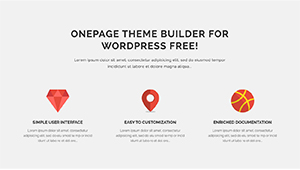
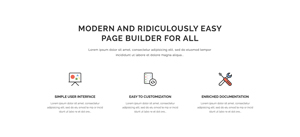
Content 2 block done

diff --git a/onepager/blocks/contents/content-2/style.css b/onepager/blocks/contents/content-2/style.css
@@ -1,7 +1,14 @@
-/*Full section*/
-.content-2{ padding: 60px 0; }
-/*Section Title*/
-.content-2 .section-title{ text-transform: uppercase; }
+/*
+	Full section
+*/
+.content-2 { padding: 60px 0; font-size: 1.125em; }
+.content-2 .section-title { font-weight: bold; font-size: 2.625em; }
 
-/*Item*/
-.content-2 .blurb-inner{ margin: 3rem 0 0; }
+.content-2 .section-title,
+.content-2 .section-subtitle { margin: 1rem 10rem; }
+
+/*
+	Blurbs
+*/
+.content-2 .blurb { margin: 3.5rem 0 0; }
+.content-2 .blurb h3 { font-weight: bold; font-size: 1.125em; }

diff --git a/onepager/blocks/contents/content-2/config.php b/onepager/blocks/contents/content-2/config.php
@@ -5,22 +5,39 @@ return array(
   'groups'    => ['contents'],
 
   'contents' => array(
-    array('name'=>'title', 'value'=>'Ready for the launch of our new website'),
-    array('name'=>'description', 'type'=>'textarea'),
+    array(
+      'name'=>'title', 
+      'value'=>'Modern and Ridiculously Easy Page Builder for All'
+    ),
+    array(
+      'name'=>'description', 
+      'type'=>'textarea', 
+      'value' => 'Lorem ipsum dolor sit amet, consectetur adipiscing elit. Etiam pellentesque eget metus a vulputate.'
+    ),
 
     array(
       'name'=>'items',
       'type'=>'repeater',
       'fields' => array(
         array('name'=>'title', 'value' => 'Awesome Design'),
-        array('name'=>'description', 'type'=> 'textarea', 'value'=>'Beautiful crafted design'),
-        array('name'=>'media', 'type'=>'media', 'value'=> 'fa fa-magic fa-3x'),
+        array('name'=>'description', 'type'=> 'textarea', 'value'=>'Beautiful crafted design for all devices'),
+        array('name'=>'media', 'type'=>'media', 'value'=> 'https://s3.amazonaws.com/quantum-assets/icon-tools.png'),
       )
     )
   ),
 
   'settings' => array(
-    array('name' => 'test'),
+    array(
+      'name'     => 'title_transformation',
+      'label'    => 'Title Transformation',
+      'type'     => 'select',
+      'value'    => 'text-uppercase',
+      'options'  => array(
+        'text-lowercase'   => 'Lowercase',
+        'text-uppercase'   => 'Uppercase',
+        'text-capitalize'  => 'Capitalized'
+      ),
+    ),
     array(
       'name'     => 'columns',
       'label'    => 'Columns',
@@ -68,25 +85,25 @@ return array(
       'name' => 'bg_color',
       'label' => 'Background Color',
       'type' => 'colorpicker',
-      'tab' => 'Styles'
+      'value' => '#fff'
     ),
     array(
       'name' => 'title_color',
-      'label' => 'Section Title Color',
+      'label' => 'Title Color',
       'type' => 'colorpicker',
-      'tab' => 'Styles'
+      'value' => '#323232'
+
     ),
     array(
       'name' => 'text_color',
       'label' => 'Text Color',
       'type' => 'colorpicker',
-      'tab' => 'Styles'
+      'value' => '#727272'
     ),
     array(
       'name' => 'icon_color',
       'label' => 'Icon Color',
-      'type' => 'colorpicker',
-      'tab' => 'Styles'
+      'type' => 'colorpicker'
     ),
   ),
 

diff --git a/onepager/blocks/contents/content-2/view.php b/onepager/blocks/contents/content-2/view.php
@@ -11,7 +11,7 @@
 			
 			<?php if($contents['title']):?>
 				<!-- Section Title -->
-				<h1 class="section-title text-center wow <?php echo $animation_title?>">
+				<h1 class="section-title text-center <?php echo $settings['title_transformation']?> wow <?php echo $animation_title?>">
 					<?php echo $contents['title']?>
 				</h1>
 			<?php endif; ?>
@@ -27,15 +27,15 @@
 			<div class="row">
 			<?php foreach($item as $feature): ?>
 				<div class="col-md-<?php echo $settings['columns']?>">
-					<div class="blurb-inner text-center wow <?php echo $animation_item?>" data-wow-delay="<?php echo $animation_delay += 0.2 ?>s">	
+					<div class="blurb text-center wow <?php echo $animation_item?>" data-wow-delay="<?php echo $animation_delay += 0.2 ?>s">	
 						
 						<?php if( op_is_image($feature['media'])):?>
-							<img src="<?php echo $feature['media'] ?>" alt="<?php echo $feature['title']?>" />
+							<img class="media" src="<?php echo $feature['media'] ?>" alt="<?php echo $feature['title']?>" />
 						<?php else :?>
-							<span class="<?php echo $feature['media'] ?>"></span>
+							<span class="media <?php echo $feature['media'] ?>"></span>
 						<?php endif;?>
 						
-						<h3 class="title"><?php echo $feature['title']?></h3>
+						<h3 class="title <?php echo $settings['title_transformation']?>"><?php echo $feature['title']?></h3>
 						<p class="desc text-muted"><?php echo $feature['description']?></p>
 					</div>
 				</div>
